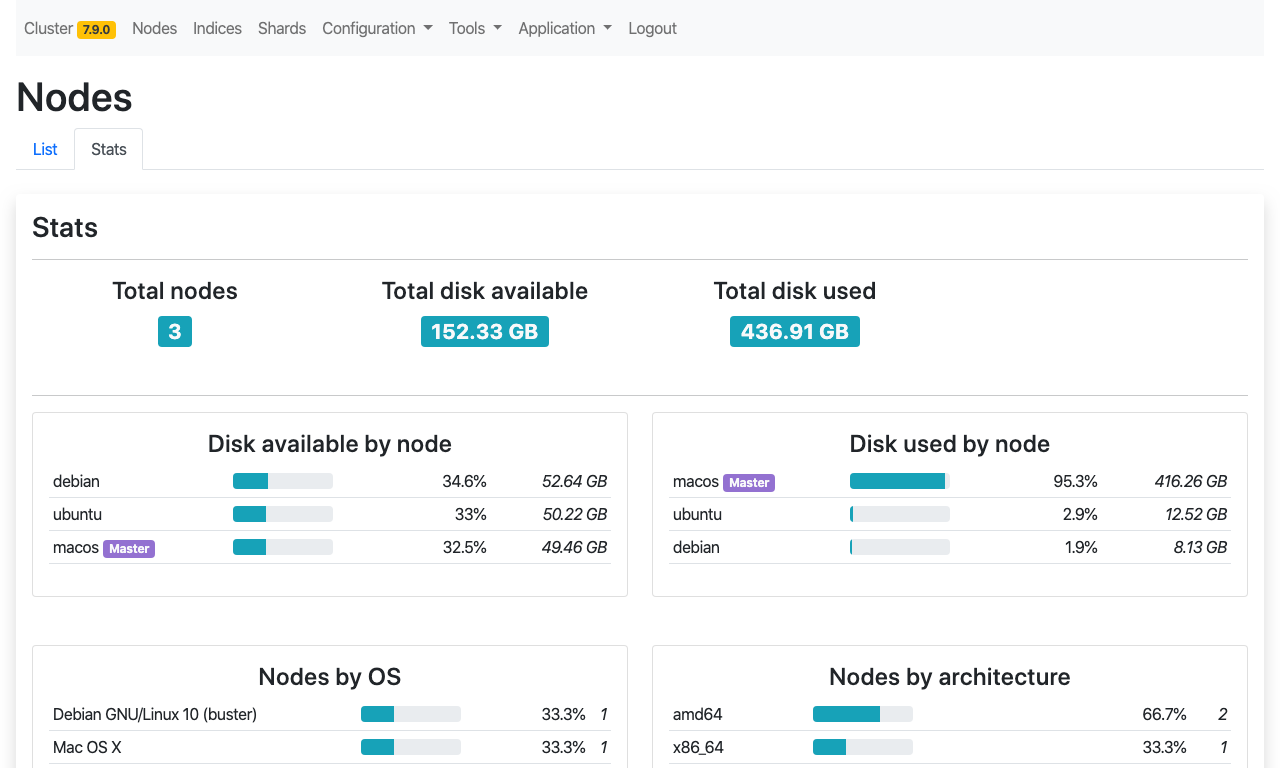
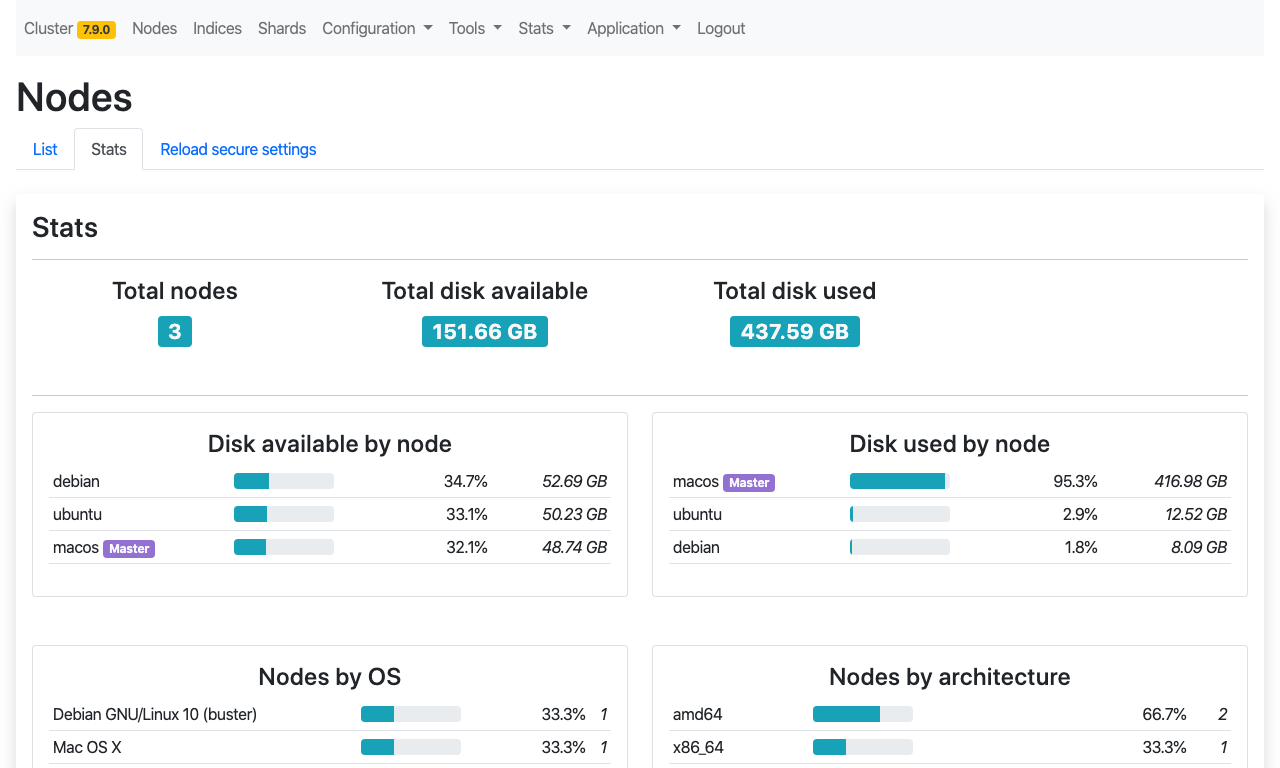
-

diff --git a/src/Controller/AppScreenshotsController.php b/src/Controller/AppScreenshotsController.php
@@ -41,6 +41,7 @@ class AppScreenshotsController extends AbstractAppController
             ['title' => 'Cluster allocation explain', 'filename' => 'cluster-allocation-explain', 'path' => '/admin/cluster/allocation/explain', 'feature' => 'allocation_explain'],
             ['title' => 'Nodes', 'filename' => 'nodes', 'path' => '/admin/nodes'],
             ['title' => 'Nodes stats', 'filename' => 'nodes-stats', 'path' => '/admin/nodes/stats'],
+            ['title' => 'Nodes reload secure settings', 'filename' => 'nodes-reload-secure-settings', 'path' => '/admin/nodes/reload-secure-settings', 'feature' => 'reload_secure_settings'],
             ['title' => 'Node', 'filename' => 'node', 'path' => '/admin/nodes/'.urlencode($masterNode)],
             ['title' => 'Node usage', 'filename' => 'node-usage', 'path' => '/admin/nodes/'.urlencode($masterNode).'/usage', 'feature' => 'node_usage'],
             ['title' => 'Indices', 'filename' => 'indices', 'path' => '/admin/indices'],

diff --git a/screenshots/7.9.0/README.md b/screenshots/7.9.0/README.md
@@ -14,6 +14,8 @@
 
 [![Nodes stats](https://raw.githubusercontent.com/stephanediondev/elasticsearch-admin/master/screenshots/7.9.0/resized/resized-nodes-stats.png)](https://raw.githubusercontent.com/stephanediondev/elasticsearch-admin/master/screenshots/7.9.0/original/original-nodes-stats.png)
 
+[![Nodes reload secure settings](https://raw.githubusercontent.com/stephanediondev/elasticsearch-admin/master/screenshots/7.9.0/resized/resized-nodes-reload-secure-settings.png)](https://raw.githubusercontent.com/stephanediondev/elasticsearch-admin/master/screenshots/7.9.0/original/original-nodes-reload-secure-settings.png)
+
 [![Node](https://raw.githubusercontent.com/stephanediondev/elasticsearch-admin/master/screenshots/7.9.0/resized/resized-node.png)](https://raw.githubusercontent.com/stephanediondev/elasticsearch-admin/master/screenshots/7.9.0/original/original-node.png)
 
 [![Node usage](https://raw.githubusercontent.com/stephanediondev/elasticsearch-admin/master/screenshots/7.9.0/resized/resized-node-usage.png)](https://raw.githubusercontent.com/stephanediondev/elasticsearch-admin/master/screenshots/7.9.0/original/original-node-usage.png)
